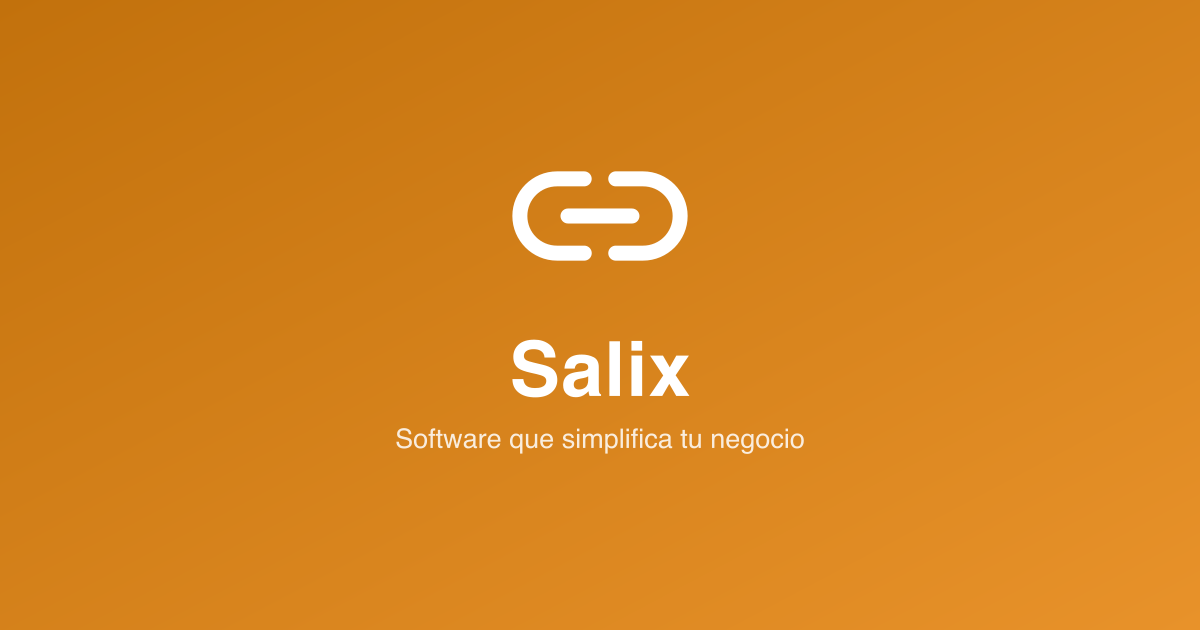
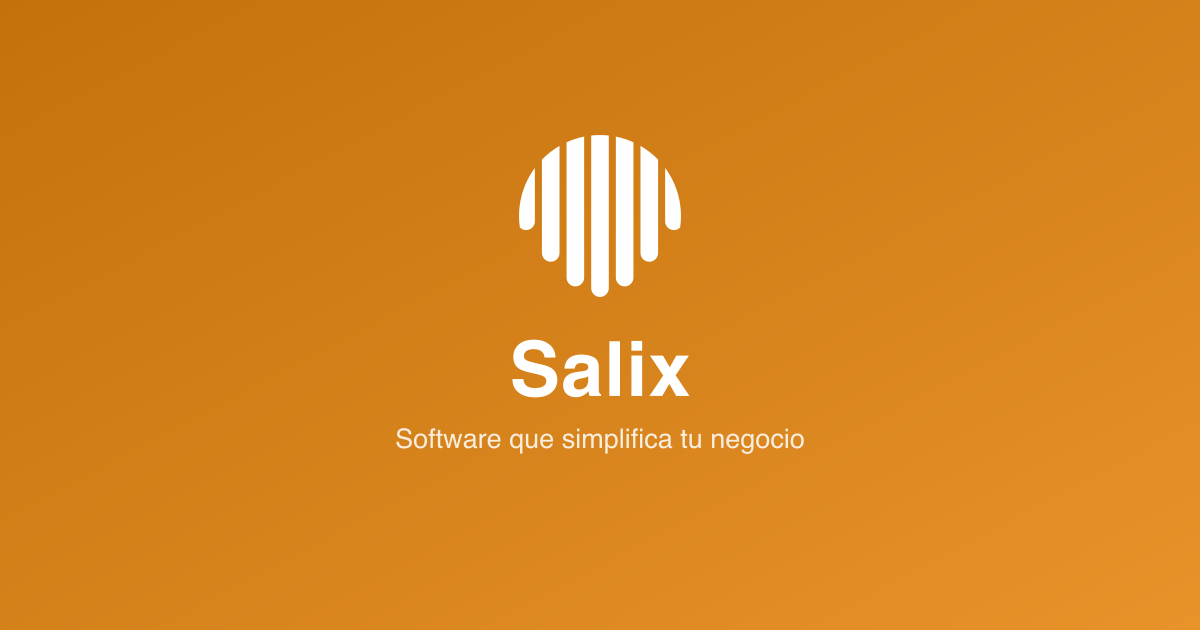
marca: el isotipo de Salix pasa a ser la Cortina
Generado desde Flux (scripts/marca/generar.mjs, commit 113d10a03). La
versión del logo cambia, así el CDN sirve el nuevo apenas se publica, y la
imagen de compartir se regeneró con el dibujo nuevo.

Changed region(s): [[0.4008, 0.2111, 0.5858, 0.4825]]

diff --git a/src/marca-version.ts b/src/marca-version.ts
@@ -4,4 +4,4 @@
  * para que el CDN sirva el archivo nuevo apenas cambia, en vez de seguir con el
  * viejo hasta que expire su cache de 7 días.
  */
-export const VERSION_LOGO = '216f6743'
+export const VERSION_LOGO = '155cb506'
